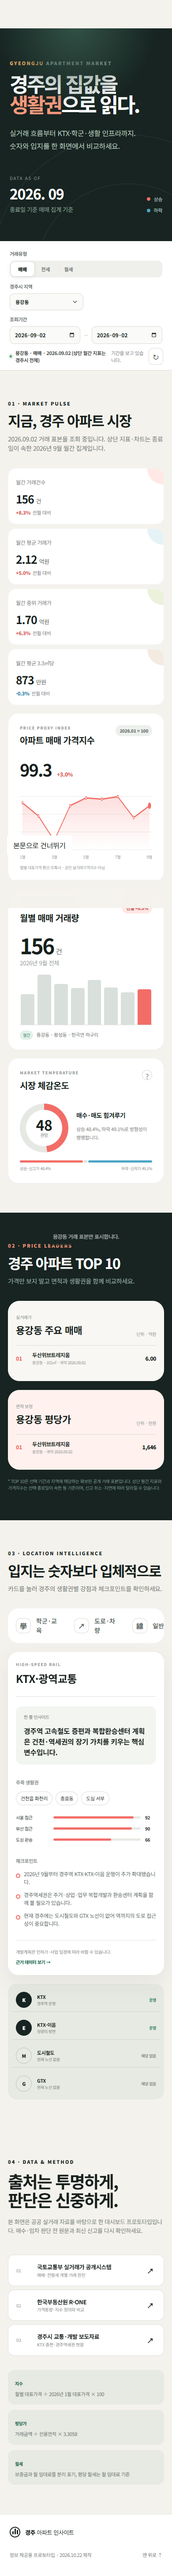
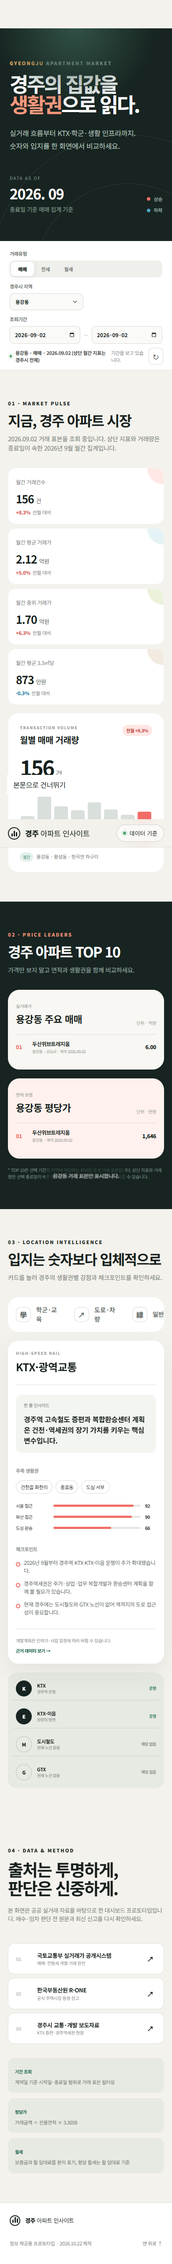
Update Site source

Changed region(s): [[0.0, 0.0, 1.0, 0.9957], [0.4923, 0.28, 0.5538, 0.3112]]

diff --git a/dist/script.js b/dist/script.js
@@ -31,7 +31,7 @@ function updateRankings(){const d=datasets[currentDeal],region=document.querySel
 function setDateRange(key){const start=document.querySelector('#startDate'),end=document.querySelector('#endDate'),latest=snapshotSeries[key].at(-1).key,limits=availability[key];start.min=end.min=limits.min;start.max=end.max=limits.max;start.value=`${latest}-01`;end.value=limits.max}
 function snapshotKpis(snapshot,previous){const volumeDelta=pct(snapshot.volume,previous?.volume);if(currentDeal==='sale'){const avgDelta=pct(snapshot.avg,previous?.avg),medianDelta=pct(snapshot.median,previous?.median),unitDelta=pct(snapshot.unit,previous?.unit);return [['월간 거래건수',String(snapshot.volume),'건',volumeDelta,'전월 대비',trend(volumeDelta)],['월간 평균 거래가',snapshot.avg.toFixed(2),'억원',avgDelta,'전월 대비',trend(avgDelta)],['월간 중위 거래가',snapshot.median.toFixed(2),'억원',medianDelta,'전월 대비',trend(medianDelta)],['월간 평균 3.3㎡당',snapshot.unit.toLocaleString(),'만원',unitDelta,'전월 대비',trend(unitDelta)]]}if(currentDeal==='jeonse'){const avgDelta=pct(snapshot.avg,previous?.avg);return [['월간 전세 계약',String(snapshot.volume),'건',volumeDelta,'전월 대비',trend(volumeDelta)],['월간 평균 보증금',snapshot.avg.toFixed(2),'억원',avgDelta,'전월 대비',trend(avgDelta)],['월간 중위 보증금',snapshot.median.toFixed(2),'억원','월 집계','계약 표본','flat'],['60~85㎡ 월평균',snapshot.sizeAvg.toFixed(2),'억원','면적 보정','계약 표본','flat']]}const rentDelta=pct(snapshot.rent,previous?.rent);return [['월간 월세 계약',String(snapshot.volume),'건',volumeDelta,'전월 대비',trend(volumeDelta)],['월간 평균 보증금',snapshot.deposit.toLocaleString(),'만원','월 집계','월세 계약','flat'],['월간 평균 월세',String(snapshot.rent),'만원',rentDelta,'전월 대비',trend(rentDelta)],['월간 월세 비중',String(snapshot.share),'%','임대차 중','공개 집계','flat']]}
 function rangeLabel(){const start=document.querySelector('#startDate').value,end=document.querySelector('#endDate').value;if(!start||!end)return '';return start===end?displayDate(start):`${displayDate(start)}–${displayDate(end)}`}
-function renderSnapshot(){const d=datasets[currentDeal],series=snapshotSeries[currentDeal],end=document.querySelector('#endDate').value,selectedMonth=end.slice(0,7);let index=series.findIndex(s=>s.key===selectedMonth);if(index<0){index=series.findLastIndex(s=>s.key<selectedMonth);if(index<0)index=0}const snapshot=series[index],previous=series[index-1],kpis=snapshotKpis(snapshot,previous),volumeDelta=pct(snapshot.volume,previous?.volume),indexDelta=pct(snapshot.index,previous?.index);els.asOf.textContent=snapshot.key.replace('-', '. ');document.querySelector('.asof small').textContent=`종료일 기준 ${d.asOfSub}`;els.marketSummary.textContent=`${rangeLabel()} 거래 표본을 조회 중입니다. 상단 지표·차트는 종료일이 속한 ${snapshot.label} 월간 집계입니다.`;els.kpiGrid.innerHTML=kpis.map((k,i)=>`<article class="kpi" style="--kpi-color:${['#ffe0dc','#dceef2','#e5eccf','#eee4d6'][i]}"><span class="kpi-label">${k[0]}</span><div class="kpi-value"><strong>${k[1]}</strong><span>${k[2]}</span></div><div class="kpi-meta"><b class="${k[5]}">${k[3]}</b>${k[4]}</div></article>`).join('');els.indexTitle.textContent=`아파트 ${d.label} 가격지수`;els.indexValue.textContent=snapshot.index.toFixed(1);els.indexDelta.textContent=indexDelta;els.indexDelta.className=trend(indexDelta);renderChart(series.slice(0,index+1).map(s=>s.index));els.volumeTitle.textContent=`월별 ${d.label} 거래량`;els.volumeBadge.textContent=`전월 ${volumeDelta}`;els.volumeBadge.style.background=volumeDelta.startsWith('-')?'var(--blue-soft)':'var(--coral-soft)';els.volumeBadge.style.color=volumeDelta.startsWith('-')?'#2788ad':'#c94d48';els.volumeValue.textContent=snapshot.volume;els.volumeSub.textContent=`${snapshot.label} 전체`;els.volumeNote.innerHTML=`<span>월간</span> ${d.volumeNote}`;renderBars(series.slice(Math.max(0,index-7),index+1).map(s=>s.volume));els.gauge.style.setProperty('--score',d.gauge);els.gaugeValue.textContent=d.gauge;els.gauge.querySelector('span').textContent=d.gaugeLabel;els.gaugeHeadline.textContent=d.gaugeHeadline;els.gaugeText.textContent=d.gaugeText;updateContext()}
+function renderSnapshot(){const d=datasets[currentDeal],series=snapshotSeries[currentDeal],end=document.querySelector('#endDate').value,selectedMonth=end.slice(0,7);let index=series.findIndex(s=>s.key===selectedMonth);if(index<0){index=series.findLastIndex(s=>s.key<selectedMonth);if(index<0)index=0}const snapshot=series[index],previous=series[index-1],kpis=snapshotKpis(snapshot,previous),volumeDelta=pct(snapshot.volume,previous?.volume);els.asOf.textContent=snapshot.key.replace('-', '. ');document.querySelector('.asof small').textContent=`종료일 기준 ${d.asOfSub}`;els.marketSummary.textContent=`${rangeLabel()} 거래 표본을 조회 중입니다. 상단 지표와 거래량은 종료일이 속한 ${snapshot.label} 월간 집계입니다.`;els.kpiGrid.innerHTML=kpis.map((k,i)=>`<article class="kpi" style="--kpi-color:${['#ffe0dc','#dceef2','#e5eccf','#eee4d6'][i]}"><span class="kpi-label">${k[0]}</span><div class="kpi-value"><strong>${k[1]}</strong><span>${k[2]}</span></div><div class="kpi-meta"><b class="${k[5]}">${k[3]}</b>${k[4]}</div></article>`).join('');els.volumeTitle.textContent=`월별 ${d.label} 거래량`;els.volumeBadge.textContent=`전월 ${volumeDelta}`;els.volumeBadge.style.background=volumeDelta.startsWith('-')?'var(--blue-soft)':'var(--coral-soft)';els.volumeBadge.style.color=volumeDelta.startsWith('-')?'#2788ad':'#c94d48';els.volumeValue.textContent=snapshot.volume;els.volumeSub.textContent=`${snapshot.label} 전체`;els.volumeNote.innerHTML=`<span>월간</span> ${d.volumeNote}`;renderBars(series.slice(Math.max(0,index-7),index+1).map(s=>s.volume));updateContext()}
 function renderDeal(key,announce=false){currentDeal=key;const d=datasets[key];setDateRange(key);els.tradeRankUnit.textContent=d.tradeUnit;els.unitRankUnit.textContent=d.unitUnit;updateRankings();renderSnapshot();document.querySelectorAll('[data-deal]').forEach(btn=>{const active=btn.dataset.deal===key;btn.classList.toggle('active',active);btn.setAttribute('aria-pressed',String(active))});if(announce)showToast(`${d.label} 최신 공개기간을 달력에 불러왔습니다.`)}
 function updateContext(){const region=document.querySelector('#regionSelect').value,name=selectedRegionName(),period=rangeLabel();els.contextLabel.textContent=region==='all'?`${name} · ${datasets[currentDeal].label} · ${period}`:`${name} · ${datasets[currentDeal].label} · ${period} (상단 월간 지표는 경주시 전체)`}
 function renderLocation(key){const d=locationData[key];document.querySelector('#detailKicker').textContent=d.kicker;document.querySelector('#detailTitle').textContent=d.title;document.querySelector('#detailScore').textContent=d.score;document.querySelector('#detailSummary').textContent=d.summary;document.querySelector('#areaChips').innerHTML=d.areas.map(x=>`<span>${x}</span>`).join('');document.querySelector('#scoreBars').innerHTML=d.bars.map(x=>`<div class="score-row"><span>${x[0]}</span><div><i style="width:${x[1]}%"></i></div><b>${x[1]}</b></div>`).join('');document.querySelector('#detailBullets').innerHTML=d.bullets.map(x=>`<li>${x}</li>`).join('');document.querySelector('#detailCaution').textContent=d.caution;document.querySelectorAll('.location-tab').forEach(btn=>{const active=btn.dataset.location===key;btn.classList.toggle('active',active);btn.setAttribute('aria-selected',String(active))})}

diff --git a/dist/index.html b/dist/index.html
@@ -31,7 +31,7 @@
       <p class="eyebrow">DATA NOTE</p>
       <h2>숫자를 읽기 전에</h2>
       <p>매매는 2026년 9월 확정 집계, 임대차는 2026년 8월 공개 집계를 중심으로 구성했습니다. 신고 지연·해제로 수치는 달라질 수 있습니다.</p>
-      <p><strong>가격지수</strong>는 월별 대표가격을 2026년 1월=100으로 환산한 비교용 프록시이며, 한국부동산원의 공인 시군구 실거래가격지수가 아닙니다.</p>
+      <p><strong>기간 조회</strong>는 확보된 거래 표본의 계약일에 적용되며, 상단 지표와 거래량은 선택 종료일이 속한 월간 집계입니다.</p>
       <a href="#sources" id="closeMethodLink">출처와 산식 보기 →</a>
     </div>
     <button class="icon-btn" id="closeMethod" type="button" aria-label="데이터 안내 닫기">×</button>
@@ -90,17 +90,6 @@
       <div class="kpi-grid" id="kpiGrid"></div>
 
       <div class="chart-grid">
-        <article class="card index-card">
-          <div class="card-head">
-            <div><p class="card-kicker">PRICE PROXY INDEX</p><h3 id="indexTitle">아파트 매매 가격지수</h3></div>
-            <span class="badge neutral">2026.01 = 100</span>
-          </div>
-          <div class="index-readout"><strong id="indexValue">99.3</strong><span id="indexDelta" class="up">+0.6%</span></div>
-          <div class="chart" id="indexChart" role="img" aria-label="월별 가격지수 선 그래프"></div>
-          <div class="chart-axis"><span>1월</span><span>3월</span><span>5월</span><span>7월</span><span>9월</span></div>
-          <p class="fineprint">월별 대표가격 환산 프록시 · 공인 실거래가격지수 아님</p>
-        </article>
-
         <article class="card volume-card">
           <div class="card-head">
             <div><p class="card-kicker">TRANSACTION VOLUME</p><h3 id="volumeTitle">월별 거래량</h3></div>
@@ -111,18 +100,6 @@
           <div class="volume-note" id="volumeNote"><span>활발</span> 용강동 · 황성동 · 현곡면 하구리</div>
         </article>
 
-        <article class="card gauge-card">
-          <div class="card-head">
-            <div><p class="card-kicker">MARKET TEMPERATURE</p><h3>시장 체감온도</h3></div>
-            <button class="help-dot" type="button" title="거래량, 가격방향, 신고가 비중을 종합한 화면용 지표">?</button>
-          </div>
-          <div class="gauge-wrap">
-            <div class="gauge" id="gauge"><div class="gauge-center"><strong id="gaugeValue">48</strong><span>관망</span></div></div>
-            <div class="gauge-copy"><strong id="gaugeHeadline">매수·매도 힘겨루기</strong><p id="gaugeText">상승 48.4%, 하락 49.1%로 방향성이 팽팽합니다.</p></div>
-          </div>
-          <div class="direction-bar"><span style="width:48.4%"></span><i></i><b style="width:49.1%"></b></div>
-          <div class="direction-legend"><span>상승·신고가 48.4%</span><span>하락·신저가 49.1%</span></div>
-        </article>
       </div>
     </section>
 
@@ -141,7 +118,7 @@
           <div class="rank-list" id="unitRank"></div>
         </article>
       </div>
-      <p class="ranking-footnote">* TOP 10은 선택 기간과 지역에 해당하는 확보된 공개 거래 표본입니다. 상단 월간 지표와 가격지수는 선택 종료일이 속한 월 기준이며, 신고 취소·지연에 따라 달라질 수 있습니다.</p>
+      <p class="ranking-footnote">* TOP 10은 선택 기간과 지역에 해당하는 확보된 공개 거래 표본입니다. 상단 지표와 거래량은 선택 종료일이 속한 월 기준이며, 신고 취소·지연에 따라 달라질 수 있습니다.</p>
     </section>
 
     <section class="section location-section" id="location">
@@ -181,11 +158,11 @@
       <div class="source-lead"><p class="eyebrow">04 · DATA & METHOD</p><h2>출처는 투명하게,<br>판단은 신중하게.</h2><p>본 화면은 공공 실거래 자료를 바탕으로 한 대시보드 프로토타입입니다. 매수·임차 판단 전 원문과 최신 신고를 다시 확인하세요.</p></div>
       <div class="source-list">
         <a href="https://rt.molit.go.kr/" target="_blank" rel="noreferrer"><span>01</span><div><strong>국토교통부 실거래가 공개시스템</strong><small>매매·전월세 개별 거래 원천</small></div><b>↗</b></a>
-        <a href="https://www.reb.or.kr/r-one/" target="_blank" rel="noreferrer"><span>02</span><div><strong>한국부동산원 R-ONE</strong><small>가격동향·지수 정의와 비교</small></div><b>↗</b></a>
+        <a href="https://www.reb.or.kr/r-one/" target="_blank" rel="noreferrer"><span>02</span><div><strong>한국부동산원 R-ONE</strong><small>공식 주택시장 동향 참고</small></div><b>↗</b></a>
         <a href="https://www.gyeongju.go.kr/news/page.do?mnu_uid=1336&pageNo=32&pageOrder=0&pagePrvNxt=1&pageRef=0&parm_bod_uid=328112&parm_mnu_uid=0&srchBgpUid=-1&srchColumn=&srchEDate=9999-12-31&srchEnable=1&srchKeyword=&srchSDate=1960-01-01&srchVoteType=-1&step=258" target="_blank" rel="noreferrer"><span>03</span><div><strong>경주시 교통·개발 보도자료</strong><small>KTX 증편·경주역세권 현황</small></div><b>↗</b></a>
       </div>
       <div class="method-grid">
-        <div><span>지수</span><p>월별 대표가격 ÷ 2026년 1월 대표가격 × 100</p></div>
+        <div><span>기간 조회</span><p>계약일 기준 시작일·종료일 범위로 거래 표본 필터링</p></div>
         <div><span>평당가</span><p>거래금액 ÷ 전용면적 × 3.3058</p></div>
         <div><span>월세</span><p>보증금과 월 임대료를 분리 표기, 평당 월세는 월 임대료 기준</p></div>
       </div>

diff --git a/dist/styles.css b/dist/styles.css
@@ -4,6 +4,8 @@
 @media(max-width:760px){.topbar{height:64px;padding:0 18px}.method-btn{margin-left:auto}.method-btn span+*{display:none}.hero{min-height:480px;padding:70px 22px 44px;display:block}.hero h1{font-size:54px}.hero-side{margin-top:50px;justify-content:space-between}.asof{text-align:left}.filters{display:grid;grid-template-columns:1fr 1fr;gap:12px}.filters label:first-child{grid-column:1/-1}.filters select{width:100%;min-width:0}.reset-btn{position:absolute;right:20px;bottom:12px;padding:6px 9px}.reset-btn span{display:none}.filter-caption{padding-right:40px}.section{padding:66px 18px}.section-heading{display:block}.section-heading>p{margin-top:14px}.kpi-grid{grid-template-columns:1fr 1fr;gap:9px}.kpi{padding:17px}.kpi-value strong{font-size:25px}.chart-grid,.ranking-grid{grid-template-columns:1fr}.ranking-card{padding:22px 18px}.rank-row{grid-template-columns:25px minmax(0,1fr) 60px}.rank-bar{display:none}.location-layout{grid-template-columns:1fr}.location-menu{display:flex;overflow-x:auto;padding:8px;gap:8px}.location-tab{min-width:124px;grid-template-columns:34px 1fr;padding:10px}.location-tab b,.location-tab small{display:none}.loc-icon{width:34px;height:34px}.location-detail{padding:22px 18px}.detail-top h3{font-size:24px}.insight-callout{grid-template-columns:1fr}.detail-columns{grid-template-columns:1fr;gap:22px}.detail-bottom{display:block}.detail-bottom a{display:inline-block;margin-top:8px}.mobility-strip{grid-template-columns:1fr 1fr;padding:10px}.mobility-strip>div{border-right:0;border-bottom:1px solid #d0d4cd;padding:8px}.source-section{grid-template-columns:1fr;gap:32px}.source-lead h2{font-size:38px}.method-grid{grid-template-columns:1fr}.gauge-wrap{grid-template-columns:110px 1fr}.gauge{width:110px;height:110px}.gauge:after{width:82px;height:82px}footer{flex-wrap:wrap}.footer-brand{width:100%}}
 @media(max-width:410px){.hero h1{font-size:46px}.segmented button{padding:8px 16px}.kpi-grid{grid-template-columns:1fr}.mobility-strip{grid-template-columns:1fr}.score{display:none}}
 .sr-only{position:absolute;width:1px;height:1px;padding:0;margin:-1px;overflow:hidden;clip:rect(0,0,0,0);white-space:nowrap;border:0}.date-range{border:0;margin:0;padding:0;display:flex;align-items:center;gap:8px;min-width:330px}.date-range legend{padding:0;margin:0 0 7px;font-size:11px;font-weight:750;color:#69716d}.date-range label{display:block}.date-range input{width:145px;border:1px solid #d9dcd5;background:#fafaf8;border-radius:10px;padding:9px 10px;color:var(--ink);font:inherit;font-size:12px}.date-range i{font-style:normal;color:#969d99;font-size:11px}.date-range input:focus{outline:2px solid rgba(47,112,91,.22);border-color:#5f8b7c}.rank-name small{white-space:normal}
+.market-section .chart-grid{grid-template-columns:1fr}.market-section .volume-card{display:grid;grid-template-columns:minmax(220px,.45fr) minmax(320px,1fr);column-gap:44px;align-items:end}.market-section .volume-card .card-head,.market-section .volume-card .volume-main,.market-section .volume-card .volume-note{grid-column:1}.market-section .volume-card .bars{grid-column:2;grid-row:1/4;height:180px}
 @media(max-width:900px){.filters{flex-wrap:wrap}.date-range{min-width:300px}.reset-btn{margin-left:0}}
 @media(max-width:760px){.date-range{grid-column:1/-1;min-width:0;width:100%;display:grid;grid-template-columns:1fr auto 1fr}.date-range legend{grid-column:1/-1}.date-range input{width:100%;min-width:0}.date-range i{text-align:center}.reset-btn{margin-left:auto}}
+@media(max-width:760px){.market-section .volume-card{display:block}.market-section .volume-card .bars{height:114px}}
 @media(prefers-reduced-motion:reduce){html{scroll-behavior:auto}*{transition:none!important}}
